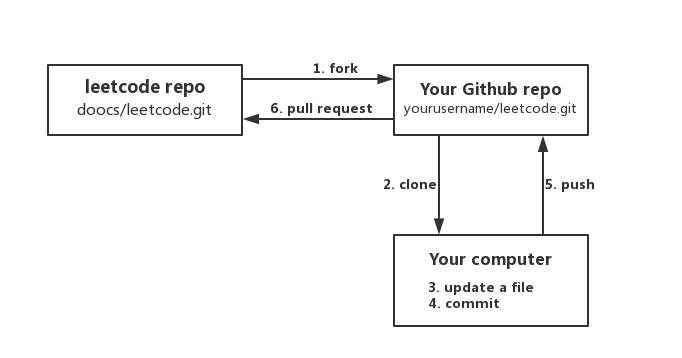
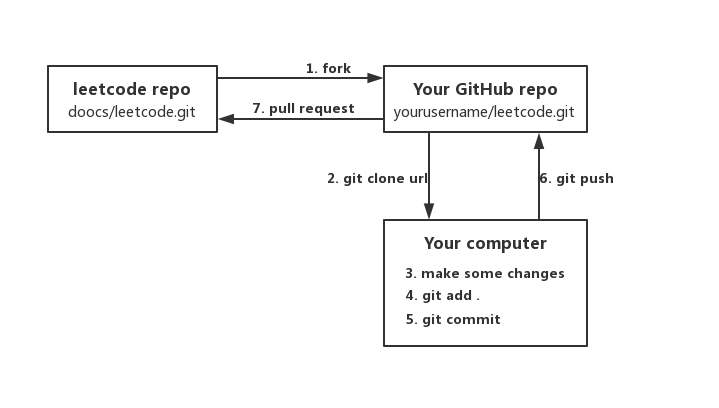
docs: update SOLUTION_TREE.md

Changed region(s): [[0.0616, 0.1536, 0.893, 0.8603], [0.5543, 0.8911, 0.8622, 0.9218]]

diff --git a/README.md b/README.md
@@ -4,11 +4,11 @@
 
 <p align="center">
   <a href="https://github.com/doocs/leetcode"><img src="https://badgen.net/badge/lang/Java,CPP,Python,JS,Ruby,Go,.../orange?list=1" alt="language"></a>
-  <a href="http://makeapullrequest.com"><img src="https://badgen.net/badge/PRs/welcome/cyan" alt="PRs Welcome"></a>
-  <a href="https://github.com/doocs/leetcode/issues"><img src="https://badgen.net/github/open-issues/doocs/leetcode" alt="issues"></a>
   <a href="https://github.com/doocs/leetcode/stargazers"><img src="https://badgen.net/github/stars/doocs/leetcode" alt="stars"></a>
   <a href="https://github.com/doocs/leetcode/network/members"><img src="https://badgen.net/github/forks/doocs/leetcode" alt="forks"></a>
-  <a href="https://github.com/doocs/leetcode/blob/master/LICENSE"><img src="https://badgen.net/badge/license/Attribution-ShareAlike%204.0%20International/F96854" alt="LICENSE"></a>
+  <a href="https://github.com/doocs/leetcode/issues"><img src="https://badgen.net/github/open-issues/doocs/leetcode" alt="issues"></a>
+  <a href="https://github.com/doocs/leetcode/blob/master/LICENSE"><img src="https://badgen.net/badge/license/Attribution-ShareAlike%204.0%20International/green" alt="LICENSE"></a>
+  <a href="http://makeapullrequest.com"><img src="https://badgen.net/badge/PRs/welcome/cyan" alt="PRs Welcome"></a>
   <a href="https://github.com/doocs/intro"><img src="https://badgen.net/badge/organization/join%20us/pink" alt="open-source-organization"></a>
   <!-- <a href="#backers" alt="sponsors on Open Collective"><img src="https://opencollective.com/leetcode-280/backers/badge.svg" /></a> 
   <a href="#sponsors" alt="Sponsors on Open Collective"><img src="https://opencollective.com/leetcode-280/sponsors/badge.svg" /></a> -->
@@ -22,10 +22,10 @@ See [SOLUTION_TREE](/SOLUTION_TREE.md).
 
 ## Contributions
 I'm looking for long-term contributors/partners to this repo! Send me [PRs](https://github.com/doocs/leetcode/pulls) if you're interested! See the following:
-- Fork this repository to your own GitHub account and then [clone](https://help.github.com/articles/cloning-a-repository/) it to your local device.
-- Add or update file of the repository, then commit and push it to your GitHub repository.
+- `Fork` [this repository](https://github.com/doocs/leetcode) to your own GitHub account and then [`clone`](https://help.github.com/articles/cloning-a-repository/) it to your local device.
+- Make some changes to your leetcode repository, then `add`, `commit` and `push` it to your remote GitHub repository.
 - Submit a pull request with your changes!
-- For more details, see [CONTRIBUTING](/.github/CONTRIBUTING.md).
+- See [CONTRIBUTING](/.github/CONTRIBUTING.md) for more details.
 
 ![how-to-contribute](/img/how-to-contribute-yanglbme.png)
 

diff --git a/SOLUTION_TREE.md b/SOLUTION_TREE.md
@@ -581,8 +581,11 @@
 │   └── Solution.java
 ├── 0169.Majority Element
 │   └── Solution.java
+├── 0171.Excel Sheet Column Number
+│   └── Solution.java
 ├── 0172.Factorial Trailing Zeroes
-│   └── Solution.cpp
+│   ├── Solution.cpp
+│   └── Solution.java
 ├── 0175.Combine Two Tables
 │   └── README.md
 ├── 0176.Second Highest Salary
